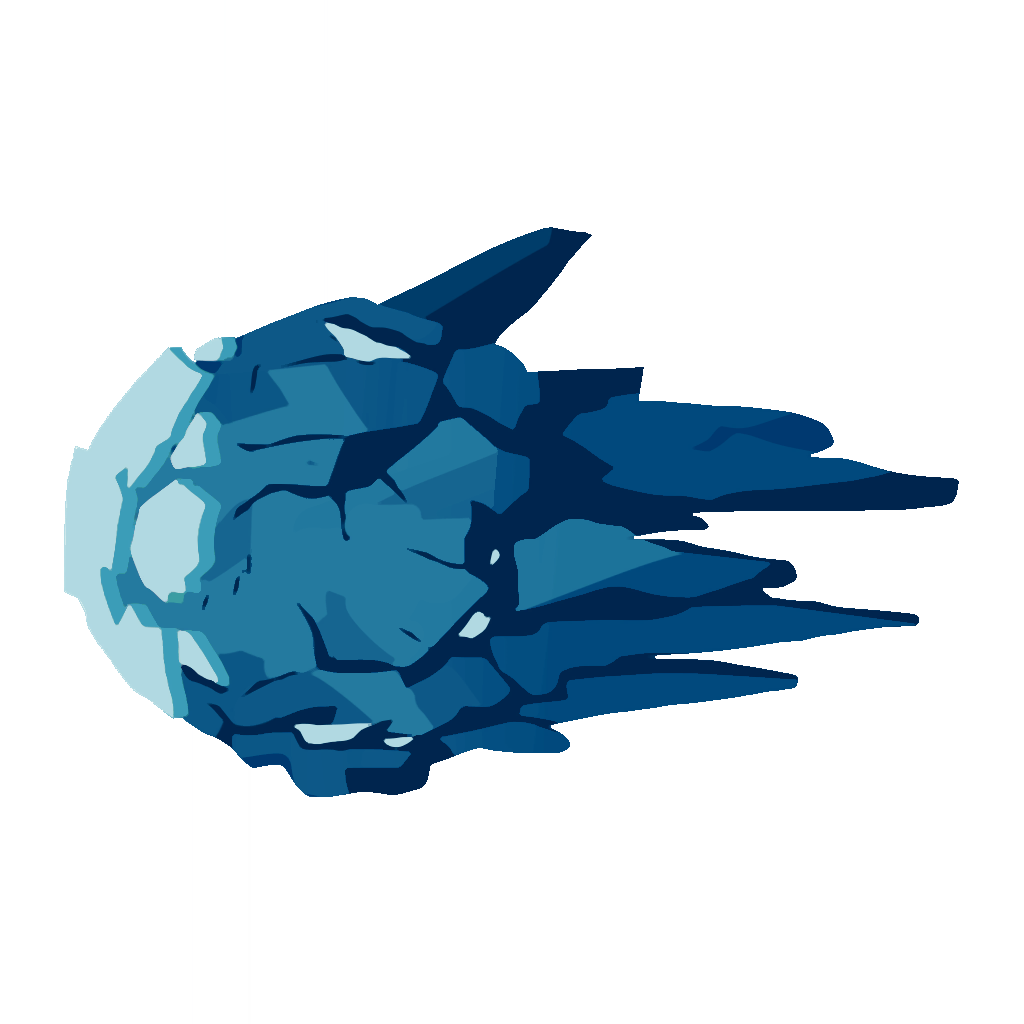
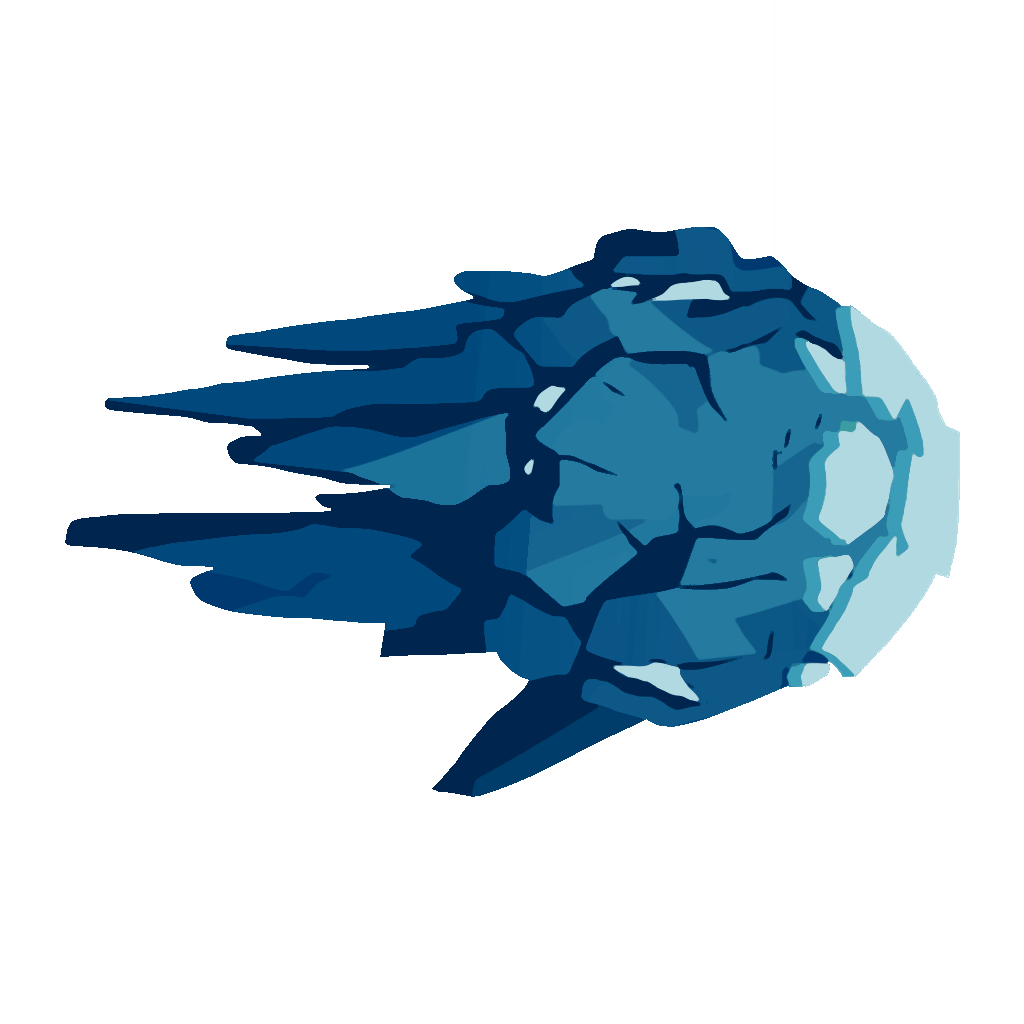
Fix Interloper artwork orientation

diff --git a/src/components/Interloper.tsx b/src/components/Interloper.tsx
@@ -27,6 +27,7 @@ type InterloperFrame = Readonly<{
   bodyId: BodyId;
   position: AttributeTarget | null;
   tail: AttributeTarget | null;
+  /** Image artwork is locally flipped once in JSX; frame updates must not rotate it again. */
   image?: AttributeTarget | null;
   orientation?: AttributeTarget | null;
   onPositionUpdate: (id: BodyId, position: Point) => void;
@@ -39,7 +40,6 @@ export function renderInterloperFrame({
   bodyId,
   position,
   tail,
-  image,
   orientation,
   onPositionUpdate,
 }: InterloperFrame): void {
@@ -49,7 +49,6 @@ export function renderInterloperFrame({
     `translate(${state.position.x.toFixed(3)} ${state.position.y.toFixed(3)})`,
   );
   tail?.setAttribute('transform', `rotate(${state.tailRotationDegrees.toFixed(3)})`);
-  image?.setAttribute('transform', `rotate(${state.tailRotationDegrees.toFixed(3)})`);
   orientation?.setAttribute('transform', `rotate(${state.tailRotationDegrees.toFixed(3)})`);
   onPositionUpdate(bodyId, state.position);
 }
@@ -74,7 +73,6 @@ export const Interloper = forwardRef<InterloperHandle, InterloperProps>(function
   const orbit = body.orbit;
   const rootRef = useRef<SVGGElement | null>(null);
   const tailRef = useRef<SVGGElement | null>(null);
-  const imageRef = useRef<SVGImageElement | null>(null);
   const orientationRef = useRef<SVGGElement | null>(null);
   const initialState = cometOrbitState(orbit, 0);
   const eccentricity = orbit.eccentricity ?? 0;
@@ -87,7 +85,6 @@ export const Interloper = forwardRef<InterloperHandle, InterloperProps>(function
       bodyId: body.id,
       position: rootRef.current,
       tail: tailRef.current,
-      image: imageRef.current,
       orientation: orientationRef.current,
       onPositionUpdate,
     });
@@ -145,7 +142,7 @@ export const Interloper = forwardRef<InterloperHandle, InterloperProps>(function
         </g>
         <g ref={orientationRef} className="comet-orientation" pointerEvents="none" transform={`rotate(${initialState.tailRotationDegrees})`}>
         <g className="body-visual comet-visual" pointerEvents="none">
-          {imageArtwork ? <image ref={imageRef} className="body-image" href={imageAssetUrl('the_interloper.png')} x={-24 * IMAGE_ARTWORK_SCALE} y={-24 * IMAGE_ARTWORK_SCALE} width={48 * IMAGE_ARTWORK_SCALE} height={48 * IMAGE_ARTWORK_SCALE} transform={`rotate(${initialState.tailRotationDegrees})`} /> : null}
+          {imageArtwork ? <image className="body-image" href={imageAssetUrl('the_interloper.png')} x={-24 * IMAGE_ARTWORK_SCALE} y={-24 * IMAGE_ARTWORK_SCALE} width={48 * IMAGE_ARTWORK_SCALE} height={48 * IMAGE_ARTWORK_SCALE} transform="rotate(180)" /> : null}
           <circle className="comet-coma comet-coma--outer" r="21" />
           <circle className="comet-coma comet-coma--inner" r="15" />
           <path className="comet-nucleus" d="M-10,-4 L-5,-10 L4,-9 L11,-2 L8,8 L-1,11 L-10,5 Z" />

diff --git a/src/components/specialBodies.frames.test.ts b/src/components/specialBodies.frames.test.ts
@@ -189,6 +189,29 @@ describe('HourglassTwins controllable stream frames', () => {
 });
 
 describe('Interloper controllable frames', () => {
+  it('leaves image artwork at its fixed local flip while the wrapper follows the anti-solar direction', () => {
+    const position = new AttributeTarget();
+    const tail = new AttributeTarget();
+    const orientation = new AttributeTarget();
+    const image = new AttributeTarget();
+    image.setAttribute('transform', 'rotate(180)');
+    const orbit = { radius: 690, period: 160, phase: 0.25, eccentricity: 0.68 } as const;
+
+    renderInterloperFrame({
+      time: 10,
+      orbit,
+      bodyId: 'interloper',
+      position,
+      tail,
+      orientation,
+      image,
+      onPositionUpdate: () => {},
+    });
+
+    expect(orientation.getAttribute('transform')).toMatch(/^rotate\(/);
+    expect(image.getAttribute('transform')).toBe('rotate(180)');
+  });
+
   it('updates its live position and anti-solar tail transform beyond time zero', () => {
     const position = new AttributeTarget();
     const tail = new AttributeTarget();

diff --git a/PROJECT_REPORT.md b/PROJECT_REPORT.md
@@ -127,7 +127,7 @@ The center of the application is a scalable SVG view of the solar system. It inc
 - Settings include a persisted artwork-mode toggle that swaps available procedural body artwork for matching `public/images` assets while preserving hit areas, labels, and orbit behavior; the White Hole remains procedural because no matching asset exists.
 - Image artwork URLs include Vite’s configured base path so assets resolve on GitHub Pages as well as local development.
 - Image artwork is rendered slightly larger than the nominal body radius to compensate for transparent padding in the source PNGs and match the SVG visual scale.
-- In image mode, the Interloper artwork rotates with the anti-solar frame so its front always points toward the Sun.
+- In image mode, the Interloper image keeps a fixed 180° local flip inside the anti-solar orientation wrapper, placing its pointy front toward the Sun.
 - The procedural Interloper body now follows the same orientation, keeping its darker side away from the Sun.
 - Orientation is kept on a separate wrapper so hover/focus scaling cannot overwrite it.
 - Hourglass Twins use standard planet-style shared solar orbit lines and moon-style binary orbit lines; hovering or selecting/following the composite twin target highlights the binary orbit and sand beam without affecting individual twin hovers.

diff --git a/ATLAS_REPORT.md b/ATLAS_REPORT.md
@@ -283,7 +283,7 @@ The symbol is an inline SVG using the same inherited color as the tooltip text.
 The settings menu includes a persisted image-artwork toggle; bodies with matching assets render them while interaction geometry remains unchanged, and the White Hole stays procedural as an asset fallback.
 Image asset URLs are built from the configured Vite base path for correct local and GitHub Pages resolution.
 Image artwork uses a modest scale-up over the nominal radius so transparent PNG padding does not make image-mode bodies appear smaller than their SVG counterparts.
-The Interloper image orientation is updated each frame so its front points toward the Sun. The procedural comet visual follows the same anti-solar frame, keeping its darker shading away from the Sun.
+The Interloper image keeps a fixed 180° local flip within the anti-solar orientation wrapper, placing its pointy front toward the Sun. The procedural comet visual follows that wrapper, keeping its darker shading away from the Sun.
 The orientation wrapper remains independent from hover/focus scaling, preserving the solar-facing direction during interaction.
 It is sized slightly larger with a clearer gap before the percentage.
 It is rendered as the final settings-menu option with a separator above it.
